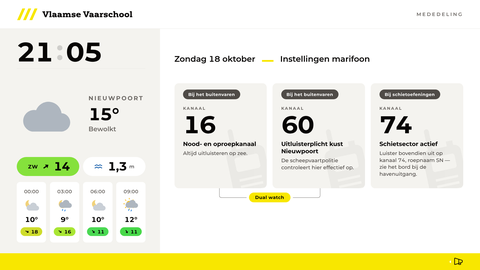
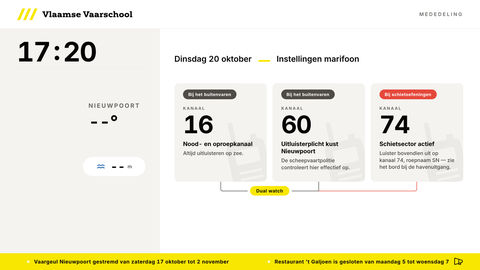
Marifoon: tag schietoefeningen rood, dual watch ook 16 + 74
Claude-Session: https://claude.ai/code/session_015pmcVukAZiAihLGu2aahse

diff --git a/mededeling.html b/mededeling.html
@@ -165,10 +165,17 @@ main{display:grid;grid-template-columns:1fr 2fr;min-height:0}
 .card .tag{display:inline-flex;align-items:center;height:3.6vh;padding:0 1.1vw;border-radius:999px;background:var(--tag);color:var(--fg);font-size:1.6vh;font-weight:700;letter-spacing:.04em;white-space:nowrap}
 .card .tag i{display:inline-block;width:.55em;height:.55em;border-top:.14em solid currentColor;border-right:.14em solid currentColor;transform:rotate(45deg);margin:0 .9em 0 .6em;opacity:.55}
 .card .tag{background:#4f4b47;color:#fff}
+:root{--rood:#e5483b}
+.card .tag.rood{background:var(--rood);color:#fff}
 .card{position:relative;overflow:hidden}
 /* dual watch: verbinding onder de vakken 16 en 60 */
 .dwrow{position:relative;height:6vh;display:flex;justify-content:center;align-items:flex-end}
-.dwrow::before{content:"";position:absolute;top:0;height:3.4vh;left:calc(25% - .6vw);right:calc(25% - .6vw);border:1px solid #4f4b47;border-top:none;border-radius:0 0 .8vh .8vh}
+/* één verbinding onder 16, 60 en 74: 16 + 60 bij het buitenvaren, 16 + 74 (rood) bij schietoefeningen.
+   Kaartbreedte = (100% − 2 × 1.2vw) / 3; de lijn loopt van het midden van kaart 1 tot het midden van kaart 3. */
+.dwrow::before{content:"";position:absolute;top:0;height:3.4vh;left:calc((100% - 2.4vw) / 6);right:50%;border:2px solid #4f4b47;border-top:none;border-right:none;border-radius:0 0 0 .8vh}
+.dwrow::after{content:"";position:absolute;top:0;height:3.4vh;left:50%;right:calc((100% - 2.4vw) / 6);border:2px solid var(--rood);border-top:none;border-left:none;border-radius:0 0 .8vh 0}
+.dwrow i{position:absolute;top:0;left:calc(50% - 1px);width:2px;height:3.4vh;background:#4f4b47}
+.dwrow span{position:absolute !important;bottom:0;left:calc(((100% - 2.4vw) / 6 + 50%) / 2);transform:translate(-50%,-.8vh) !important;z-index:2}
 .dwrow span{position:relative;height:3.6vh;display:inline-flex;align-items:center;padding:0 1.3vw;border-radius:999px;background:var(--yellow);font-size:1.7vh;font-weight:700;letter-spacing:.04em;box-shadow:0 0 0 .9vh var(--bg,#fff);transform:translateY(-.8vh)}
 .card>*:not(.bg){position:relative}
 .card svg.bg{position:absolute;right:-1.2vw;bottom:-7vh;height:30vh;width:auto;fill:var(--fg);opacity:.035;transform:rotate(-12deg)}
@@ -378,7 +385,7 @@ const MEDEDELING={
   kaarten:[
     {kanaal:"16",wat:"Nood- en oproepkanaal",waarom:"Altijd uitluisteren op zee.",tag:"Bij het buitenvaren",dual:true},
     {kanaal:"60",wat:"Uitluisterplicht kust Nieuwpoort",waarom:"De scheepvaartpolitie controleert hier effectief op.",tag:"Bij het buitenvaren",dual:true},
-    {kanaal:"74",wat:"Schietsector actief",waarom:"Luister bovendien uit op kanaal 74, roepnaam SN — zie het bord bij de havenuitgang.",tag:"Bij schietoefeningen",dual:false}
+    {kanaal:"74",wat:"Schietsector actief",waarom:"Luister bovendien uit op kanaal 74, roepnaam SN — zie het bord bij de havenuitgang.",tag:"Bij schietoefeningen",dual:true,rood:true}
   ]
 };
 const MICON={radio:"M104,168a8,8,0,0,1-8,8H64a8,8,0,0,1,0-16H96A8,8,0,0,1,104,168Zm-8-40H64a8,8,0,0,0,0,16H96a8,8,0,0,0,0-16Zm0-32H64a8,8,0,0,0,0,16H96a8,8,0,0,0,0-16ZM232,80V192a16,16,0,0,1-16,16H40a16,16,0,0,1-16-16V72a8,8,0,0,1,5.7-7.66l160-48a8,8,0,0,1,4.6,15.33L86.51,64H216A16,16,0,0,1,232,80ZM216,192V80H40V192H216Zm-16-56a40,40,0,1,1-40-40A40,40,0,0,1,200,136Zm-16,0a24,24,0,1,0-24,24A24,24,0,0,0,184,136Z",sos:"M128,24A104,104,0,1,0,232,128,104.11,104.11,0,0,0,128,24Zm39.1,131.79a47.84,47.84,0,0,0,0-55.58l28.5-28.49a87.83,87.83,0,0,1,0,112.56ZM96,128a32,32,0,1,1,32,32A32,32,0,0,1,96,128Zm88.28-67.6L155.79,88.9a47.84,47.84,0,0,0-55.58,0L71.72,60.4a87.83,87.83,0,0,1,112.56,0ZM60.4,71.72l28.5,28.49a47.84,47.84,0,0,0,0,55.58L60.4,184.28a87.83,87.83,0,0,1,0-112.56ZM71.72,195.6l28.49-28.5a47.84,47.84,0,0,0,55.58,0l28.49,28.5a87.83,87.83,0,0,1-112.56,0Z",police:"M208,40H48A16,16,0,0,0,32,56v56c0,52.72,25.52,84.67,46.93,102.19,23.06,18.86,46,25.26,47,25.53a8,8,0,0,0,4.2,0c1-.27,23.91-6.67,47-25.53C198.48,196.67,224,164.72,224,112V56A16,16,0,0,0,208,40Zm0,72c0,37.07-13.66,67.16-40.6,89.42A129.3,129.3,0,0,1,128,223.62a128.25,128.25,0,0,1-38.92-21.81C61.82,179.51,48,149.3,48,112l0-56,160,0ZM82.34,141.66a8,8,0,0,1,11.32-11.32L112,148.69l50.34-50.35a8,8,0,0,1,11.32,11.32l-56,56a8,8,0,0,1-11.32,0Z",target:"M232,120h-8.34A96.14,96.14,0,0,0,136,32.34V24a8,8,0,0,0-16,0v8.34A96.14,96.14,0,0,0,32.34,120H24a8,8,0,0,0,0,16h8.34A96.14,96.14,0,0,0,120,223.66V232a8,8,0,0,0,16,0v-8.34A96.14,96.14,0,0,0,223.66,136H232a8,8,0,0,0,0-16Zm-96,87.6V200a8,8,0,0,0-16,0v7.6A80.15,80.15,0,0,1,48.4,136H56a8,8,0,0,0,0-16H48.4A80.15,80.15,0,0,1,120,48.4V56a8,8,0,0,0,16,0V48.4A80.15,80.15,0,0,1,207.6,120H200a8,8,0,0,0,0,16h7.6A80.15,80.15,0,0,1,136,207.6ZM128,88a40,40,0,1,0,40,40A40,40,0,0,0,128,88Zm0,64a24,24,0,1,1,24-24A24,24,0,0,1,128,152Z",info:"M128,24A104,104,0,1,0,232,128,104.11,104.11,0,0,0,128,24Zm0,192a88,88,0,1,1,88-88A88.1,88.1,0,0,1,128,216Zm16-40a8,8,0,0,1-8,8,16,16,0,0,1-16-16V128a8,8,0,0,1,0-16,16,16,0,0,1,16,16v40A8,8,0,0,1,144,176ZM112,84a12,12,0,1,1,12,12A12,12,0,0,1,112,84Z"};
@@ -389,9 +396,9 @@ function renderMsg(){
   const M=MEDEDELING;$("mtitle").textContent=M.titel;
   const k=M.kaarten, nd=k.filter(c=>c.dual).length;
   $("msg").innerHTML=`<div class="cards">`+k.map(c=>`<div class="card">`+RADIO+
-      `<div class="top"><span class="tag">${c.tag}</span></div>`+
+      `<div class="top"><span class="tag${c.rood?" rood":""}">${c.tag}</span></div>`+
       `<div class="chb"><span class="k">Kanaal</span><div class="ch">${c.kanaal}</div><div class="what">${c.wat}</div><div class="why">${c.waarom}</div></div></div>`).join("")+
-    (nd>1?`<div class="dwrow" style="grid-column:1 / ${nd+1}"><span>Dual watch</span></div>`:"")+`</div>`;
+    (nd>1?`<div class="dwrow" style="grid-column:1 / ${nd+1}"><i></i><span>Dual watch</span></div>`:"")+`</div>`;
 }
 tick();setInterval(tick,1000);renderMsg();loadWx();setInterval(loadWx,15*60*1000);
 setTimeout(()=>location.reload(),6*36e5);
